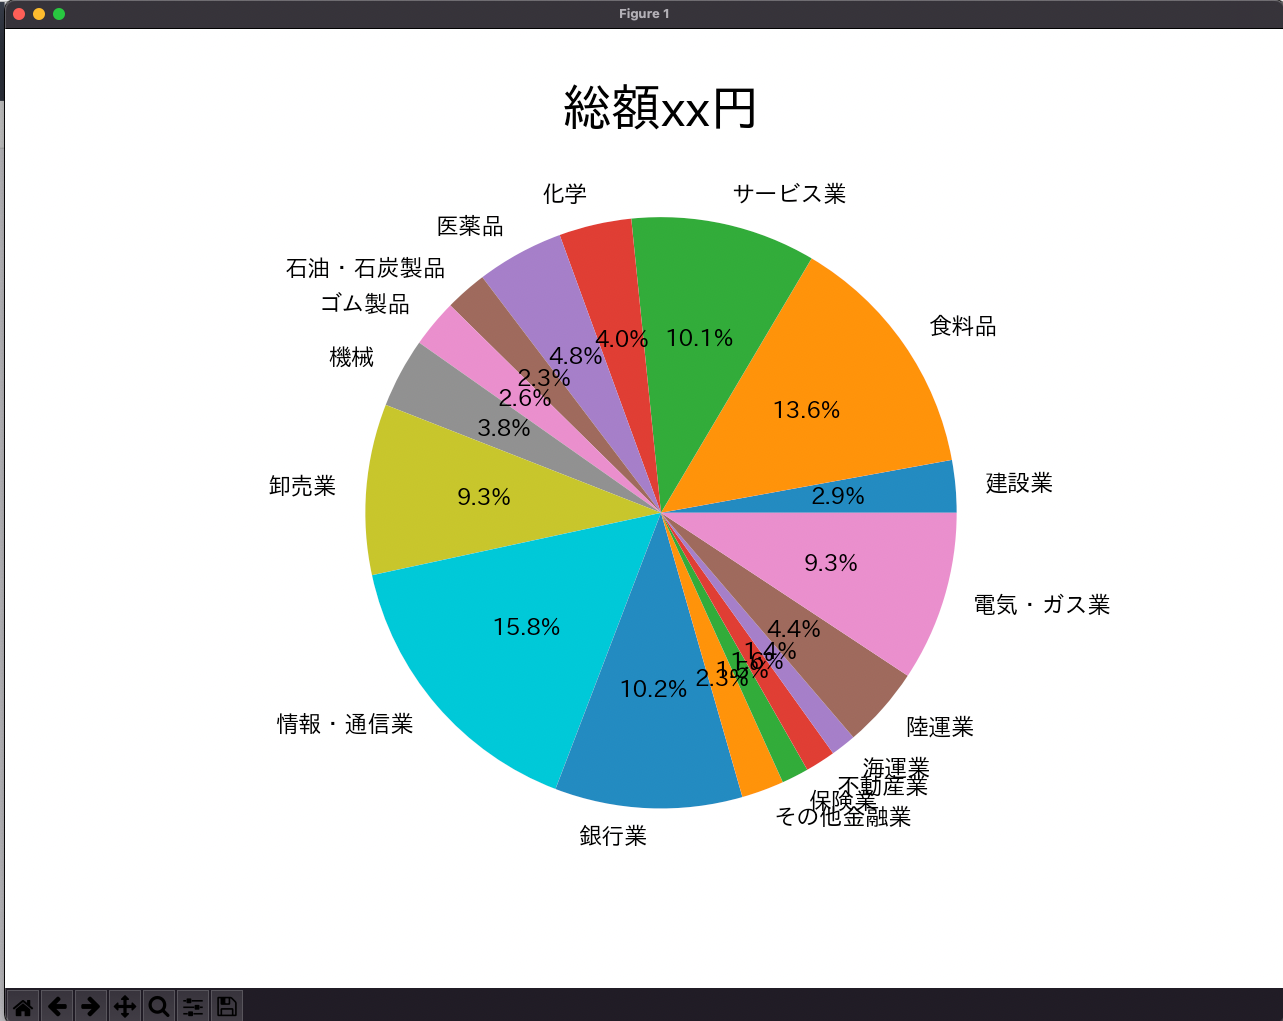
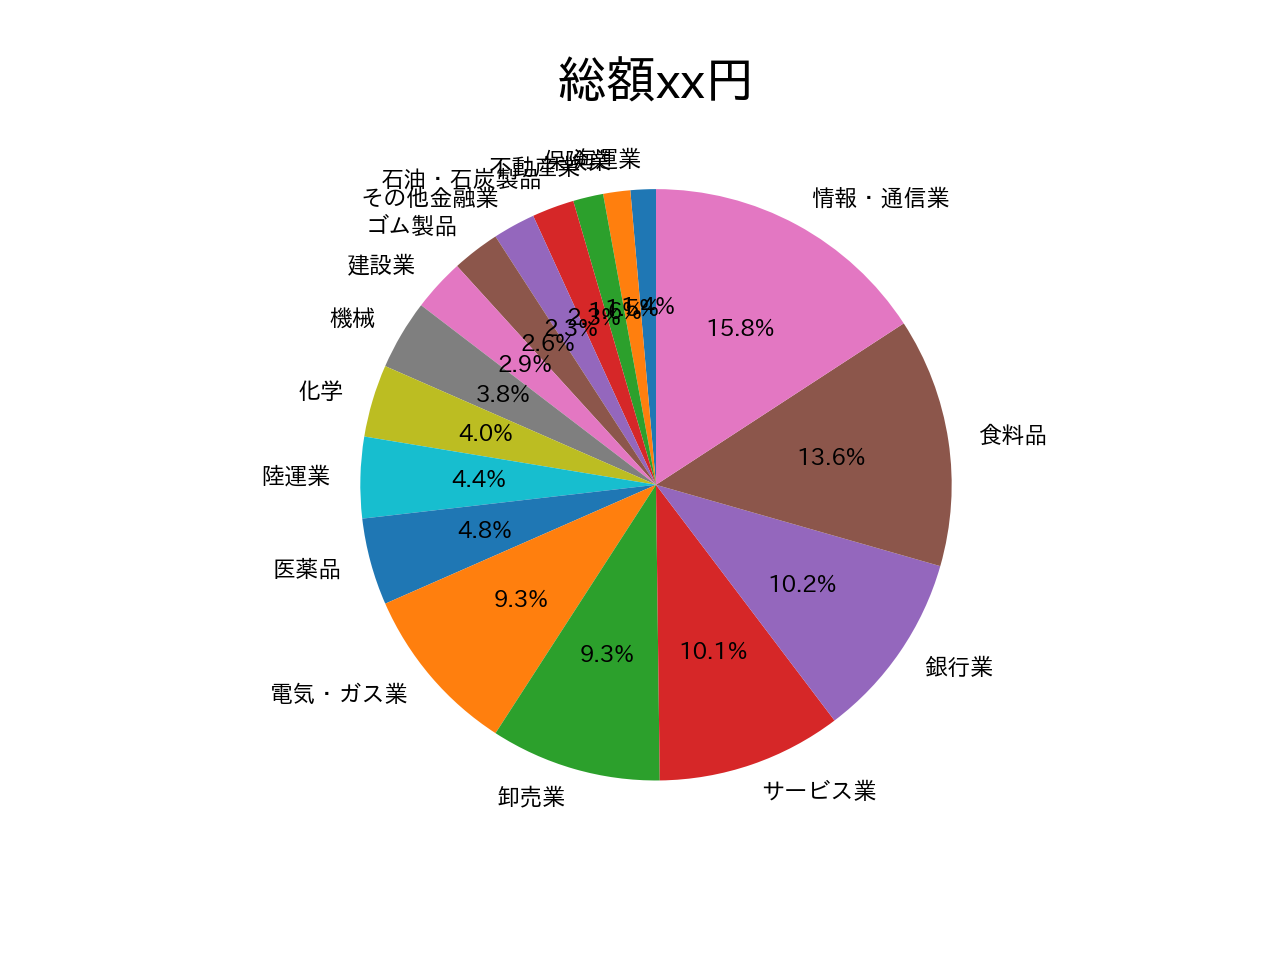
:+1: sort of pie chart order

diff --git a/main.py b/main.py
@@ -1,7 +1,13 @@
-import os, re, time, datetime, sys, csv, pandas
+import os
+import re
+import time
+import datetime
+import sys
+import csv
+import pandas
 from bs4 import BeautifulSoup
-from os.path import join,dirname
-from selenium.webdriver import Chrome,ChromeOptions
+from os.path import join, dirname
+from selenium.webdriver import Chrome, ChromeOptions
 from selenium.webdriver.common.keys import Keys
 from selenium.webdriver.common.by import By
 from selenium.webdriver.common.action_chains import ActionChains
@@ -17,14 +23,13 @@ def login():
     options.add_argument("--disable-popup-blocking")
     options.add_argument("--headless")
 
-
     driver = Chrome(ChromeDriverManager().install(), options=options)
 
     LOGIN_URL = "https://trade.sbineomobile.co.jp/login"
     driver.get(LOGIN_URL)
     time.sleep(0.5)
 
-    input_name = driver.find_element(By.NAME,"username")
+    input_name = driver.find_element(By.NAME, "username")
     input_name.send_keys(os.environ['USER_ID'])
     input_pass = driver.find_element(By.NAME, "password")
     input_pass.send_keys(os.environ['PASSWORD'])
@@ -34,10 +39,9 @@ def login():
     return driver
 
 
-
 def main():
     driver = login()
-    
+
     PORTFOLIO_URL = "https://trade.sbineomobile.co.jp/account/portfolio"
     driver.get(PORTFOLIO_URL)
     time.sleep(2)
@@ -47,7 +51,8 @@ def main():
     tables = soup.select('#portfolio-layout > section')
     table_length = len(tables)
     while True:
-        driver.execute_script("document.getElementById('portfolio-foot').scrollIntoView({behavior: 'smooth',block: 'start'});")
+        driver.execute_script(
+            "document.getElementById('portfolio-foot').scrollIntoView({behavior: 'smooth',block: 'start'});")
         time.sleep(1)
         html = driver.page_source.encode('utf-8')
         soup = BeautifulSoup(html, "html.parser")
@@ -57,31 +62,33 @@ def main():
         table_length = len(tables)
 
     all_dict = {
-        'code':[],
-        'name':[],
-        'amount':[],
-        'valuation':[],
-        'valuation_rate':[],
-        'acquisition_unit_price':[],
-        'pl':[],
-        'present_value':[]
+        'code': [],
+        'name': [],
+        'amount': [],
+        'valuation': [],
+        'valuation_rate': [],
+        'acquisition_unit_price': [],
+        'pl': [],
+        'present_value': []
     }
 
-
-
     for x in range(4, table_length):
-        code = re.findall(r'p .*?"ticker">(\d+?)</p>',str(tables[x]))[0]
-        name = re.findall(r'<a>\n +?(\S.+?)\n',str(tables[x]))[0]
-        amount = re.findall(r'保有数量</th>\n<td><span>(\d+?)</span>',str(tables[x]))[0]
-        amount = round(float(amount.replace(',','')))
-        valuation = re.findall(r'評価額</div>\n<span>(\S+?)\n',str(tables[x]))[0]
-        valuation = round(float(valuation.replace(',','')))
-        acquisition_unit_price = re.findall(r'平均取得単価</th>\n<td><span>\n\s*(.+?)\n',str(tables[x]))[0]
-        acquisition_unit_price = round(float(acquisition_unit_price.replace(',','')))
-        present_value = re.findall(r'現在値/前日比</th>\n<td>\n<span>(.*?)</span>',str(tables[x]))[0]
-        present_value = round(float(present_value.replace(',','')))
+        code = re.findall(r'p .*?"ticker">(\d+?)</p>', str(tables[x]))[0]
+        name = re.findall(r'<a>\n +?(\S.+?)\n', str(tables[x]))[0]
+        amount = re.findall(
+            r'保有数量</th>\n<td><span>(\d+?)</span>', str(tables[x]))[0]
+        amount = round(float(amount.replace(',', '')))
+        valuation = re.findall(r'評価額</div>\n<span>(\S+?)\n', str(tables[x]))[0]
+        valuation = round(float(valuation.replace(',', '')))
+        acquisition_unit_price = re.findall(
+            r'平均取得単価</th>\n<td><span>\n\s*(.+?)\n', str(tables[x]))[0]
+        acquisition_unit_price = round(
+            float(acquisition_unit_price.replace(',', '')))
+        present_value = re.findall(
+            r'現在値/前日比</th>\n<td>\n<span>(.*?)</span>', str(tables[x]))[0]
+        present_value = round(float(present_value.replace(',', '')))
         pl = round((present_value - acquisition_unit_price) * amount)
-        valuation_rate = round(float(pl/valuation*100),2)
+        valuation_rate = round(float(pl/valuation*100), 2)
 
         all_dict['code'].append(code)
         all_dict['name'].append(name)
@@ -93,18 +100,18 @@ def main():
         all_dict['present_value'].append(present_value)
 
     df_neomobile = pandas.DataFrame({
-        'コード':all_dict['code'],
-        '銘柄名':all_dict['name'],
-        '保有数量(株)':all_dict['amount'],
-        '評価額(円)':all_dict['valuation'],
-        '評価損益率(%)':all_dict['valuation_rate'],
-        '平均取得単価(円)':all_dict['acquisition_unit_price'],
-        '損益(円)':all_dict['pl'],
-        '現在値(円)':all_dict['present_value']
-        })
+        'コード': all_dict['code'],
+        '銘柄名': all_dict['name'],
+        '保有数量(株)': all_dict['amount'],
+        '評価額(円)': all_dict['valuation'],
+        '評価損益率(%)': all_dict['valuation_rate'],
+        '平均取得単価(円)': all_dict['acquisition_unit_price'],
+        '損益(円)': all_dict['pl'],
+        '現在値(円)': all_dict['present_value']
+    })
 
     driver.quit()
-    
+
     make_graph(df_neomobile)
 
 

diff --git a/make_graph.py b/make_graph.py
@@ -3,26 +3,27 @@ import numpy as np
 import matplotlib.pyplot as plt
 import japanize_matplotlib
 
+
 def make_graph(port_folio_df):
-  category_df = pd.read_csv('./categories.csv', index_col=1)
+    category_df = pd.read_csv('./categories.csv', index_col=1)
 
-  pf_array = port_folio_df.to_numpy()
-  dict = {}
-  sum = 0
+    pf_array = port_folio_df.to_numpy()
+    dict = {}
+    sum = 0
 
-  for arr in pf_array:
-    sum += arr[3]
-    code = int(arr[0])
-    category = category_df.loc[code, 'category']
-    if category in dict:
-      dict[category] += arr[3]
-    else:
-      dict[category] = arr[3]
-
-  keys = np.array(list(dict.keys()))
-  values = np.array(list(dict.values()))
-  plt.figure(dpi=200)
-  plt.title("総額%d円"%sum, fontsize=18)
-  plt.pie(values, labels=keys, autopct="%1.1f%%", textprops={'size': 'small'},)
-  plt.savefig('portfolio_chart.png')
-
+    for arr in pf_array:
+        sum += arr[3]
+        code = int(arr[0])
+        category = category_df.loc[code, 'category']
+        if category in dict:
+            dict[category] += arr[3]
+        else:
+            dict[category] = arr[3]
+    sorted_list = sorted(dict.items(), key=lambda x: x[1])
+    keys = [x[0] for x in sorted_list]
+    values = [x[1] for x in sorted_list]
+    plt.figure(dpi=200)
+    plt.title("総額%d円" % sum, fontsize=18)
+    plt.pie(values, labels=keys, autopct="%1.1f%%", textprops={
+            'size': 'small'}, counterclock=True, startangle=90)
+    plt.savefig('portfolio_chart.png')
